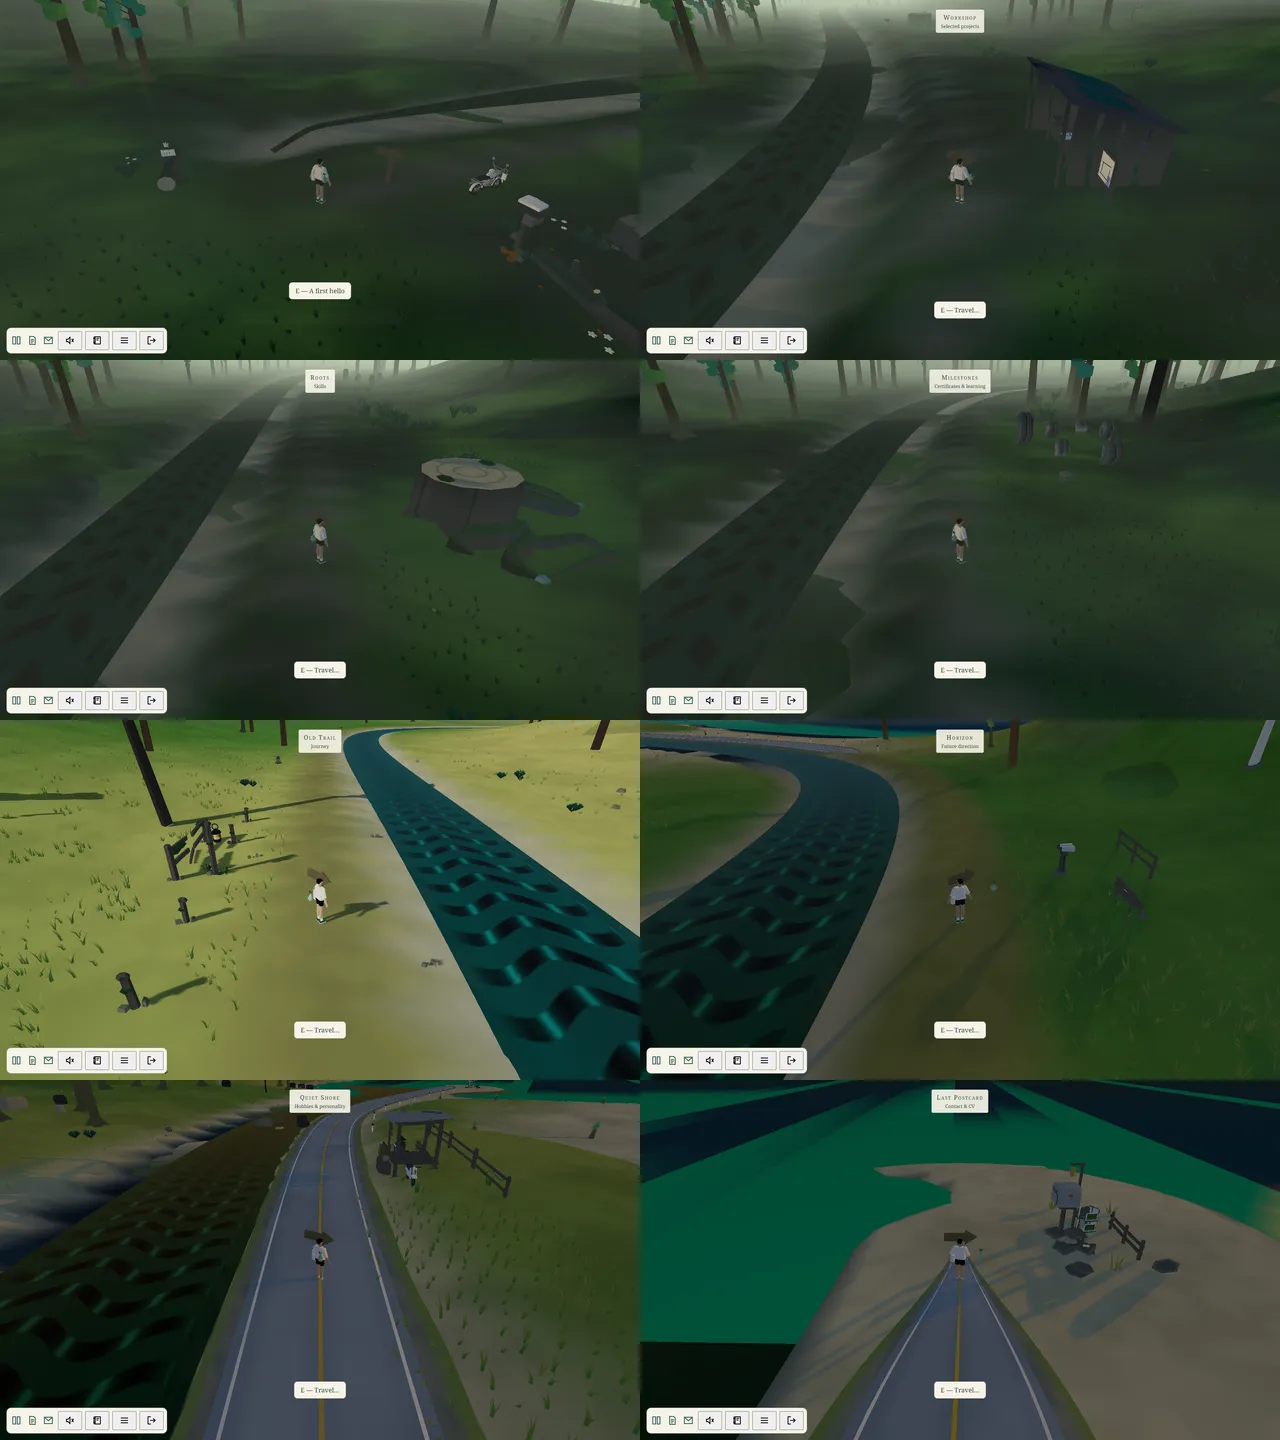
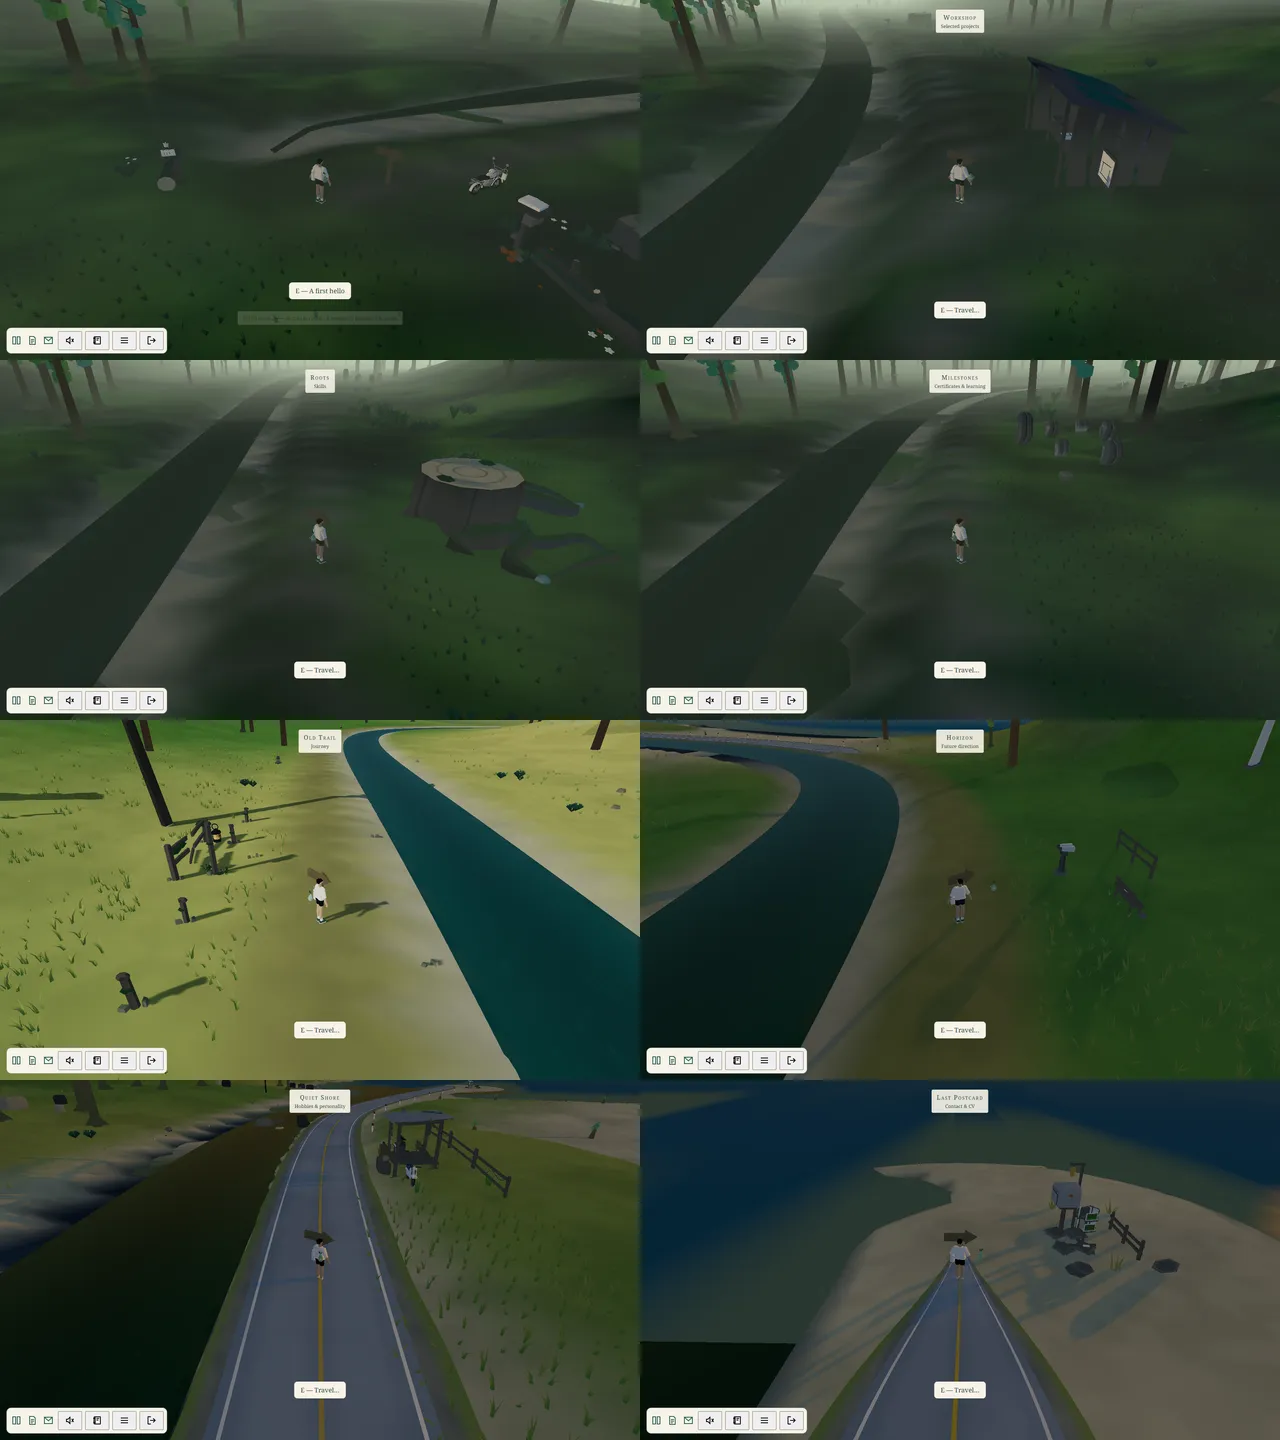
docs: status + in-game 8-zone sheet after water/sea round 2 (5.22 s, e2e 151)

diff --git a/docs/PROJECT_STATUS.md b/docs/PROJECT_STATUS.md
@@ -1,6 +1,6 @@
 # PROJECT_STATUS — The Quiet Atlas
 
-> Cập nhật lần cuối: 2026-11-06 chiều (đợt 27: hành trình đo thật PASS, hoàn thiện lượt 1–2, vào chơi 4,89 s).
+> Cập nhật lần cuối: 2026-11-06 tối (đợt 27: duyệt bằng ảnh trong game, nước/biển/rừng sửa vòng 2, vào chơi 5,22 s).
 
 ## Milestone hiện tại
 
@@ -502,6 +502,25 @@ Showcase: `docs/showcase/26-asset-ky/checklist.md`. Chưa push.
 | hành trình 5–7 phút | **PASS**, 6:08 (desktop tham khảo) |
 | T10, playtest người thật | **DEFERRED** (chờ UX/UI ≈ 90–100 %) |
 | T08/T09 | **NOT RUN** (laptop Iris Xe) |
+
+### Đợt 27 tiếp (2026-11-06 tối): duyệt bằng ảnh trong game
+
+- Công cụ: hook QA `goTo(zone)` + `tools/review/ingame-shots.mjs` (B2-226). Lead duyệt bằng ảnh **trong game thật** ở 8 khu (`docs/showcase/27-hoan-thien-1/ingame/`), không chỉ ảnh tour.
+- Đã merge:
+  - lớp phủ dày quanh spawn (B2-223) + lớp phủ mềm được mọc trên nền khu (B2-225);
+  - nền rừng sáng hơn, đốm nắng (B2-224);
+  - First Light trong khung nhìn đầu (B2-222), Milestones thấy từ điểm đến (B2-228);
+  - suối rừng có màu nước (B2-221);
+  - gợn nước không hoa văn lặp (B2-219b → 219c sau 2 vòng);
+  - biển hoàng hôn xanh tím, hết nan quạt (B2-229 → 229b).
+- Tín hiệu `data-world-build`; timeout e2e 90 s; vài spec ổn định hơn dưới tải.
+
+| Kiểm tra (trên `d7a6f66`) | Kết quả |
+|---|---|
+| lint, typecheck, unit 1605 | **PASS** |
+| e2e | **151/151 PASS** |
+| perf: thời gian tới playable | **5,22 s** (mục tiêu 6 s) **PASS** |
+| perf: 3D bytes | **PASS**, 2,00 MB / 8 MB |
 
 ### Ticket tiếp theo
 
